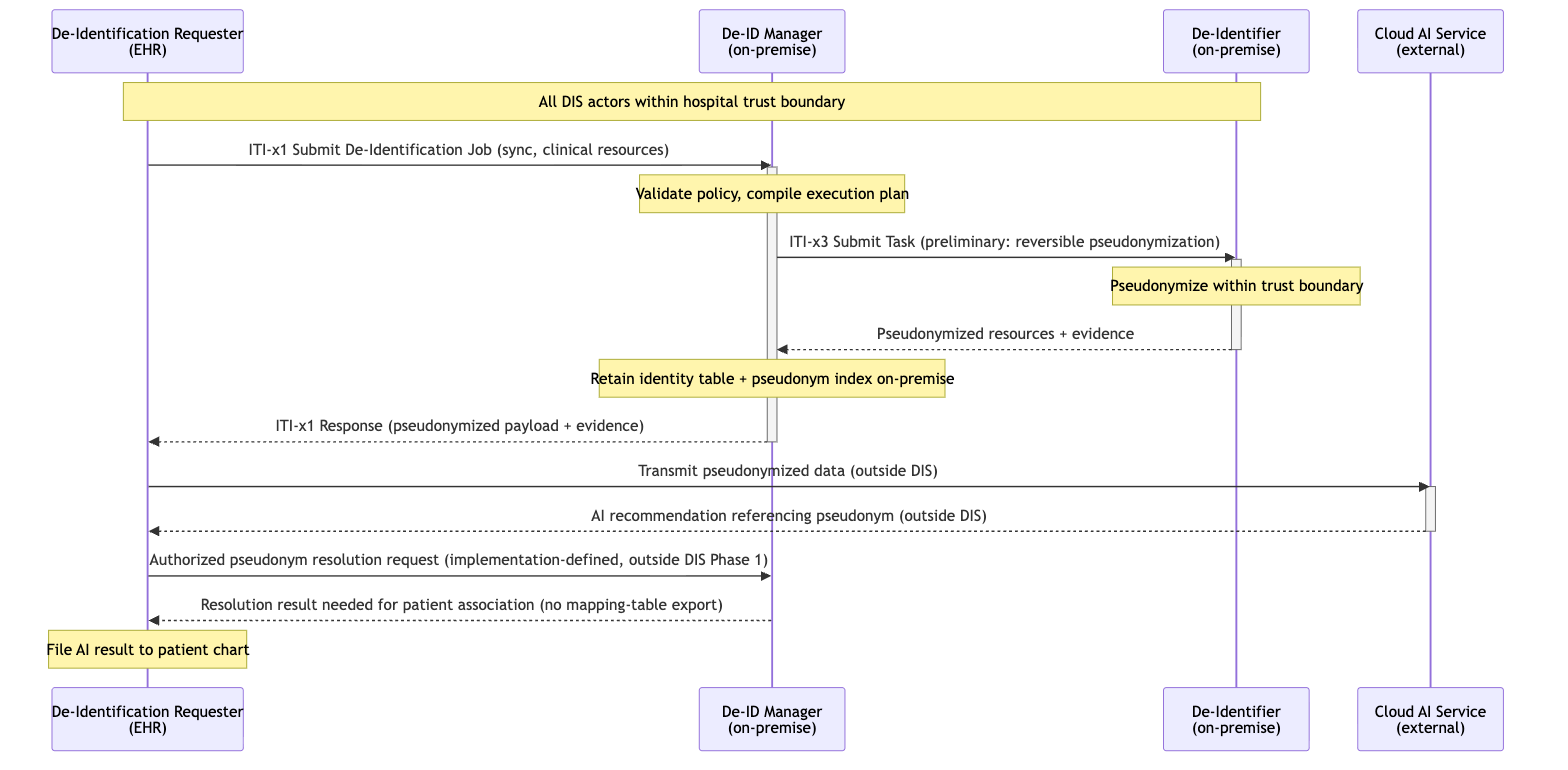
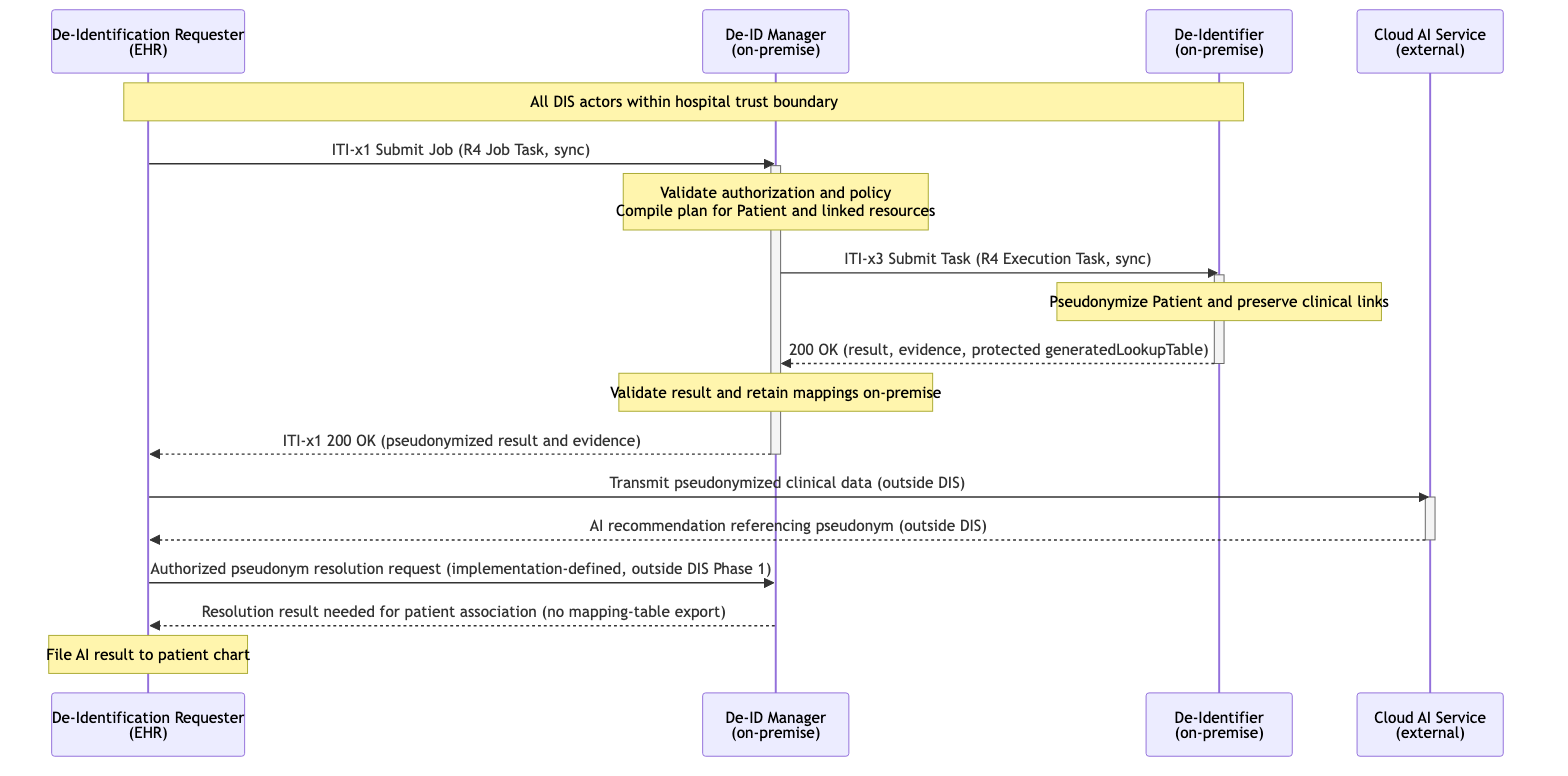
Align Volume 1 use cases with the DIS workflow

diff --git a/input/pagecontent/volume-1.md b/input/pagecontent/volume-1.md
@@ -388,19 +388,21 @@ Each future payload binding is developed as a self-contained specification, inde
 
 #### 1:PXX.4.2.1 Use Case 1: Cross-Border Epidemiological Study Using IPS+
 
-A research consortium conducts a cross-border epidemiological study combining population-based cancer-registry data with selected clinical information originally collected for healthcare delivery. The study examines incidence, treatment patterns, comorbidities, outcomes, and survival across participating jurisdictions.
+A research consortium conducts a cross-border epidemiological study combining population-based cancer-registry data with selected clinical information originally collected for healthcare delivery. The study examines incidence, treatment patterns, comorbidities, outcomes, and survival across participating jurisdictions. In this use case, IPS+ means the International Patient Summary (IPS) together with the additional clinical and registry records authorized for the study. [International Patient Summary Implementation Guide](https://hl7.org/fhir/uv/ips/2.0.1/en/index.html)
 
 ##### 1:PXX.4.2.1.1 Cross-Border Epidemiological Study Use Case Description
 
 Clinical data remain under primary-use governance when recorded or exchanged for care. Their reuse begins only after a secondary-use request has been assessed and an authorization context has been issued. The Data Access Coordinator (DAC) coordinates participating jurisdictions, resolves authorized source-data provision, and -- acting as the De-Identification Requester -- submits a DIS job to produce a cohort dataset transformed by pseudonymization and policy-specified record-level rules for subsequent delivery to a Secure Processing Environment (SPE).
 
-The DAC submits an asynchronous ITI-x1 job with a signed policy and HL7 FHIR processing targets. The De-ID Manager validates the policy and compiles a staged execution plan with two ruleSets.
+The DAC submits an asynchronous R4 Job Task through ITI-x1 with the data request authorization, the signed policy, and a manifest that selects the prepared FHIR cohort. The Manager validates the authorization and policy before accepting the job. It compiles a separate plan for each of the two assigned ruleSets.
 
 The preliminary ruleSet pseudonymizes direct identifiers with irreversible, project-scoped pseudonyms within the authorized scope identified by `identity-linkage-scope`, using the same authorized scope and deployment-provisioned salt version to preserve linkage for matching source identifier pairs within the de-identified dataset. The advanced ruleSet applies policy-specified record-level suppression and fixed quasi-identifier generalization. Small-cell handling and transformations requiring cohort statistics are outside Phase 1; any required dataset-level assessment or processing occurs outside this DIS workflow before release to the SPE.
 
 Because DIS-IRREVERSIBLE is declared, the De-ID Manager does not retain identity tables or pseudonym indices after job completion. No DIS reverse-mapping service is maintained; this does not exclude identification through auxiliary information or reproduction using retained derivation secrets.
 
-The De-ID Manager dispatches tasks asynchronously (DIS-ASYNC-TASK). Each De-Identifier accepts the task via ITI-x3. The Manager polls via ITI-x7 for status and retrieves the output when the task completes. The DAC retrieves the de-identified output and evidence via ITI-x4 polling and forwards it to the SPE.
+Each stage has one assigned ruleSet. The Manager sends the corresponding asynchronous R4 Execution Task through ITI-x3 and polls the assigned De-Identifier through ITI-x7. The Manager validates the preliminary output before dispatching the advanced task with that validated input. It validates the final output, rechecks release authorization, and records staged release Provenance. The DAC retrieves the cohort and its evidence through ITI-x4, then forwards the cohort to the SPE outside the DIS exchange.
+
+The [staged asynchronous example](examples-staged-async.html) shows the task sequence and release evidence. The [Bulk FHIR cohort example](examples-bulk-fhir-cohort.html) shows manifest and NDJSON delivery.
 
 ##### 1:PXX.4.2.1.2 Cross-Border Epidemiological Study Process Flow
 
@@ -414,15 +416,17 @@ An AI/ML consortium develops or validates cancer models using multimodal data --
 
 ##### 1:PXX.4.2.2.1 AI/ML Method Development Use Case Description
 
-The consortium holds a data permit identifying the approved cohort, modalities, linkage requirements, and de-identification stages. The DAC acts as the De-Identification Requester and submits an asynchronous job for the structured clinical data (EHR records, laboratory results, outcome labels, annotations).
+The consortium holds a data permit identifying the approved cohort, modalities, linkage requirements, and de-identification stages. Acting as the De-Identification Requester, the DAC submits an asynchronous R4 Job Task through ITI-x1 for the structured FHIR data, including the selected EHR records, laboratory results, outcome labels, and annotations.
 
-The De-ID Manager compiles a staged execution plan with two ruleSets. The preliminary ruleSet pseudonymizes direct identifiers with irreversible, project-scoped pseudonyms within the authorized scope identified by `identity-linkage-scope`, using a consistent deployment-provisioned salt and compatible derivation parameters. Future DICOM processing could reuse that authorized scope for clinical/imaging linkage, provided identity resolution and derivation compatibility are also established; reusing the scope identifier alone is insufficient.
+The Manager validates the permit and approved policy before accepting the job. It compiles a separate plan for each of the two assigned ruleSets. The preliminary ruleSet assigns irreversible pseudonyms under the policy's `identity-linkage-scope`. Matching source identifier pairs produce consistent pseudonyms when the tasks use the same authorized scope, effective salt and salt version, and compatible derivation parameters. Future linkage between clinical and DICOM data also requires coordinated identity resolution and compatible derivation.
 
 The advanced ruleSet applies fixed quasi-identifier generalization and policy-specified record-level suppression to the HL7 FHIR payload. Any required dataset-level assessment or processing occurs outside this DIS workflow before release to the SPE.
 
 Because DIS-IRREVERSIBLE is declared, the De-ID Manager does not retain identity tables or pseudonym indices after job completion. Consistent pseudonyms are still produced within the project scope during processing, enabling longitudinal linkage in the de-identified dataset, without a retained reverse-mapping table. Any authorized retention of derivation secrets remains subject to §1:PXX.2.6.
 
-The De-ID Manager dispatches tasks asynchronously (DIS-ASYNC-TASK). Each De-Identifier accepts the task via ITI-x3. The Manager polls via ITI-x7 for status and retrieves the output when the task completes. The DAC retrieves the de-identified HL7 FHIR output via ITI-x4 and delivers it to the SPE.
+The Manager sends one asynchronous R4 Execution Task per assigned ruleSet through ITI-x3 and retrieves the results through ITI-x7. The advanced task receives validated preliminary output. After validating the final result and rechecking release authorization, the Manager makes the FHIR output and evidence, including staged release Provenance, available through ITI-x4. The DAC delivers the approved FHIR output to the SPE outside the DIS exchange.
+
+The [staged asynchronous example](examples-staged-async.html) illustrates the stage handoff. The [grouped FHIR job example](examples-grouped-fhir-job.html) illustrates packaging different FHIR payload versions in one job.
 
 ##### 1:PXX.4.2.2.2 AI/ML Method Development Process Flow
 
@@ -436,11 +440,13 @@ A hospital EHR pseudonymizes patient context before sending a laboratory order t
 
 ##### 1:PXX.4.2.3.1 Clinical Pathology Order Use Case Description
 
-Institutional policy prohibits the external lab from seeing direct patient identifiers. The EHR acts as the De-Identification Requester and submits a synchronous ITI-x1 job with care-context authorization, a pseudonymization policy, and Patient plus ServiceRequest resources.
+Institutional policy prohibits the external lab from seeing direct patient identifiers. The EHR submits a synchronous R4 Job Task through ITI-x1 with care-context authorization, an approved pseudonymization policy, and a manifest selecting the `Patient` and `ServiceRequest`.
 
-The De-ID Manager validates the policy and compiles an execution plan with a single ruleSet. The De-Identifier replaces patient identifiers with scoped pseudonyms -- the same pseudonym is used for the same patient within the project scope, enabling longitudinal result correlation. The De-ID Manager returns the pseudonymized payload and evidence inline in the ITI-x1 response.
+The Manager validates the authorization and policy, then submits a synchronous R4 Execution Task through ITI-x3 with the compiled plan for one ruleSet. The De-Identifier assigns a scoped pseudonym and preserves the `ServiceRequest.subject` link to the pseudonymized `Patient`. Matching source identifier pairs yield the same pseudonym when the worker uses the same authorized scope, effective salt, and salt version. The EHR uses that consistency to correlate later lab results. The Manager returns the pseudonymized result package and evidence inline through ITI-x1.
 
-This use case uses Manager-managed mappings, without a Requester-supplied lookup table. The De-ID Manager retains custody of the identity table and pseudonym index. To associate the returned lab result with the correct patient chart, the EHR uses an authorized, implementation-defined interaction with the Manager's mapping service. The EHR receives only the resolution result needed for this association; the identity table and pseudonym index are not exported. This interaction is outside the transactions standardized by DIS Phase 1.
+The De-Identifier returns the generated lookup table to the Manager, which validates and retains the mapping before release. The EHR sends the pseudonymized order to the lab. When the result comes back with the pseudonym, the EHR uses an authorized, implementation-defined resolution interaction to associate it with the correct chart. The Manager provides only the resolution result needed for that association. The lab exchange and resolution occur outside DIS.
+
+The [reversible pathology example](examples-reversible-pathology.html) illustrates the Manager-managed mapping and evidence flow.
 
 ##### 1:PXX.4.2.3.2 Clinical Pathology Order Process Flow
 
@@ -454,13 +460,13 @@ A hospital EHR pseudonymizes patient data before transmitting to a cloud-hosted 
 
 ##### 1:PXX.4.2.4.1 AI-Assisted Clinical Decision Support Use Case Description
 
-This use case uses Manager-managed mappings, without a Requester-supplied lookup table. A clinician triggers AI decision support for an active patient encounter. The EHR submits the patient's HL7 FHIR resources (Observations, Conditions, MedicationStatements, Encounters) to the on-premise De-ID Manager for reversible pseudonymization. The De-ID Manager and De-Identifier operate entirely within the hospital trust boundary.
+A clinician triggers AI decision support for an active encounter. The EHR submits a synchronous R4 Job Task through ITI-x1 to the on-premise Manager with the approved reversible pseudonymization policy. The manifest selects the `Patient` and the authorized linked clinical resources, such as `Observation`, `Condition`, `MedicationStatement`, and `Encounter`. The Manager sends an R4 Execution Task through ITI-x3 to an on-premise De-Identifier. The output clinical references remain linked to the pseudonymized `Patient`.
 
-The De-ID Manager returns the pseudonymized payload synchronously. The EHR transmits pseudonymized data to the cloud AI service and receives recommendations referencing the pseudonym.
+The De-Identifier returns the output and evidence to the Manager. When it generates patient mappings, it also returns the protected `generatedLookupTable`. The Manager validates and retains the mappings before releasing the pseudonymized result and evidence to the EHR through ITI-x1. The EHR sends the pseudonymized clinical data to the cloud service outside DIS and receives recommendations referencing the pseudonym.
 
 The EHR uses an authorized, implementation-defined interaction with the Manager's mapping service to associate the AI output with the correct patient chart. The Manager retains custody of the identity table and pseudonym index and returns only the resolution result needed for that association. This interaction is outside the transactions standardized by DIS Phase 1.
 
-Protected security material (identity table, pseudonym index, confidential salts) never leaves the hospital trust boundary.
+The identity table, pseudonym index, and confidential salts remain inside the hospital trust boundary. The [Manager-managed pathology example](examples-reversible-pathology.html) illustrates the reversible mapping and evidence flow used on the hospital side.
 
 ##### 1:PXX.4.2.4.2 AI-Assisted Clinical Decision Support Process Flow
 
@@ -476,11 +482,11 @@ An authorized clinician exports a de-identified HL7 FHIR document from a clinica
 
 A clinician initiates export of a clinical document (for example, a discharge summary for patient-mediated sharing or a document for external referral). The clinical workstation hosts an Integrated De-ID Manager/De-Identifier operating standalone. The Integrated actor maps the clinician's local authorization (role and declared purpose) to a locally configured de-identification policy. No external data permit or policy acquisition is needed -- the policy is pre-configured by institutional administration and identified by a local URI.
 
-The Integrated De-ID Manager/De-Identifier validates the policy, compiles an execution plan with a single ruleSet, executes identifier handling per the configured policy, and produces the de-identified document Bundle with Provenance evidence. It writes the output to the export destination. An ATNA audit record is emitted recording the policy identifier, ruleSet, outcome, and audit correlation.
+The Integrated De-ID Manager/De-Identifier validates the policy, compiles a plan for one ruleSet, and executes it locally. It validates the de-identified document Bundle and its references and checks the Provenance before writing the output to the export destination. It emits an ATNA audit record containing the policy identifier, ruleSet, outcome, and audit correlation.
 
 This use case demonstrates standalone content conformance. The Integrated actor validates the policy, applies the execution plan, and produces output and evidence that satisfy the FHIR payload and evidence requirements. Invocation and export occur locally.
 
-See the [open issue on Data Recipient and push delivery](issues.html#data-recipient-and-push-delivery).
+The [standalone clinical export example](examples-standalone-export.html) illustrates the local policy, exported document, and Provenance. The [Data Recipient and push delivery proposal](issues.html#data-recipient-and-push-delivery) is an open issue.
 
 ##### 1:PXX.4.2.5.2 De-Identified Health Data Export Process Flow
 
